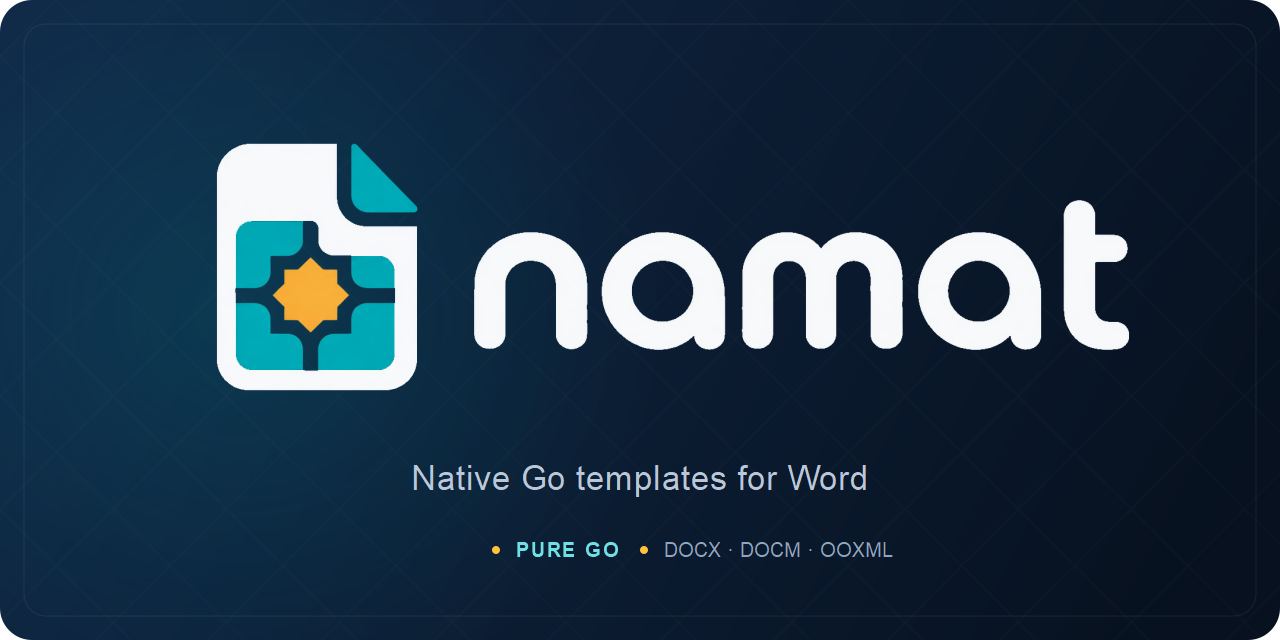
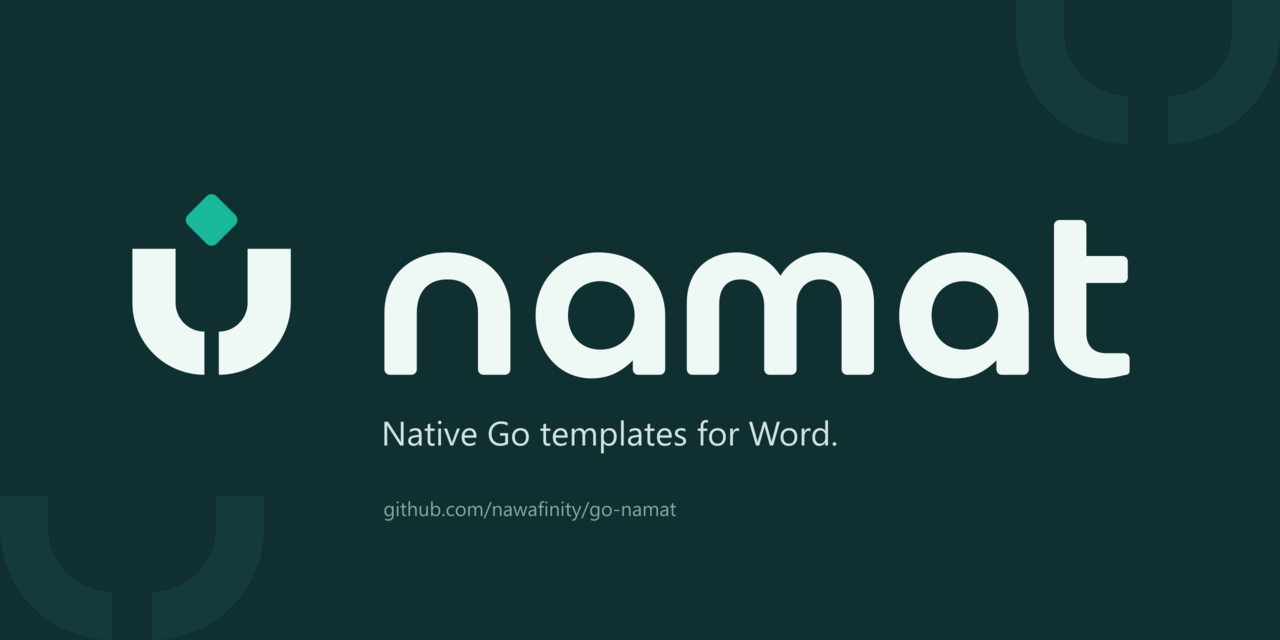
design: reinvent Namat as a modular vector identity

diff --git a/assets/brand/README.md b/assets/brand/README.md
@@ -1,0 +1,49 @@
+# Namat identity
+
+Namat means “pattern” or “template” in Arabic. Its symbol is an abstract **ن**
+(noon), built from two mirrored corner modules and a diamond-shaped dot.
+The repeated modules express structure and assembly; the custom lowercase
+wordmark gives the identity a clear, approachable international voice.
+
+## Assets
+
+| File | Use |
+| --- | --- |
+| `namat-logo-light.svg` | Full lockup on light backgrounds |
+| `namat-logo-dark.svg` | Full lockup on dark backgrounds |
+| `namat-mark-light.svg` | Standalone symbol on light backgrounds |
+| `namat-mark-dark.svg` | Standalone symbol on dark backgrounds |
+| `og-image.svg` | Editable, self-contained social-preview source |
+| `og-image.png` | 1280 × 640 GitHub Social Preview upload |
+
+## Color
+
+| Color | Value | Role |
+| --- | --- | --- |
+| Deep teal | `#143C3C` | Light-theme symbol and wordmark |
+| Porcelain | `#EEF8F5` | Dark-theme symbol and wordmark |
+| Jade | `#18B99A` | Diamond accent in both themes |
+| Night teal | `#102F30` | Social-preview background |
+
+Light and dark assets share identical geometry. Only the primary ink changes;
+the jade accent stays the same. Choose the asset for its background rather
+than applying an inversion filter. Keep the original proportions and the
+clear space included in each SVG's viewBox.
+
+## Construction and use
+
+- Every visible element is vector geometry, including the custom wordmark
+  and the outlined social-preview lettering. No fonts or images are loaded.
+- The standalone symbol is designed to remain recognizable at 16 px;
+  24 px or larger is preferred when space allows. The full lockup is best
+  used at 180 px wide or larger.
+- The symbol's two modules are reflections across its vertical axis. Keep
+  the central gap open and retain the diamond's position and proportions.
+- SVG titles and descriptions provide accessible names. When embedding an
+  SVG through an HTML image element, also provide appropriate `alt` text.
+- The social preview is one fixed composition. Edit its labeled vector
+  groups, then export an opaque sRGB PNG at exactly 1280 × 640. Keep that
+  PNG below 1 MB. It does not switch themes with a README's picture element.
+
+All assets were constructed and rendered locally. The earlier raster logo
+and mark exports are superseded by these SVGs and remain in Git history.
